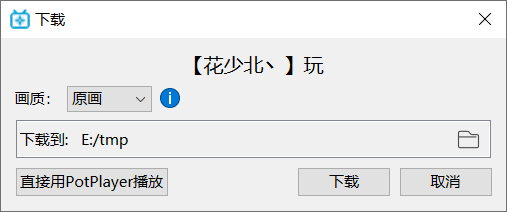
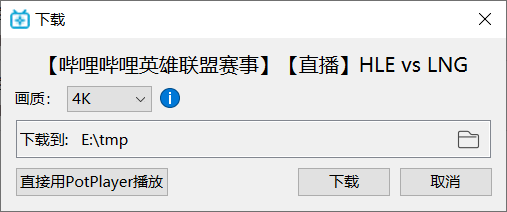
update readme

Changed region(s): [[0.0888, 0.2547, 0.9467, 0.3679], [0.1775, 0.6226, 0.2663, 0.7075], [0.1183, 0.4245, 0.2071, 0.5094]]

diff --git a/README.md b/README.md
@@ -56,13 +56,13 @@ B23Downloader: 下载B站 视频/直播/漫画
 
 <img src="./README.assets/download-example-live.png" alt="download-example-live" width="400" />
 
-上图中，首先注意到，对话框中的标题为 【花少北丶】玩，其命名规则为【<用户名>】<房间标题>。
+上图中，对话框的标题为 *【哔哩哔哩英雄联盟赛事】【直播】HLE vs LNG*，其命名规则为【<用户名>】<房间标题>，示例中用户名为 *哔哩哔哩英雄联盟赛事*，房间标题为 *【直播】HLE vs LNG*。
 
-下载文件的命名为 <标题> <下载开始时间>.flv，比如**【花少北丶】玩 [2021.09.24] 22.21.45.flv**，其所在文件为上图中所选的 **E:/tmp/**
+下载文件的命名为 <标题> <下载开始时间>.flv，比如**【哔哩哔哩英雄联盟赛事】【直播】HLE vs LNG [2021.10.05] 18.59.22.flv**，其所在文件夹为上图中所选的 **E:/tmp/**
 
 目前的直播下载任务策略为：
 
-- 暂停直播下载任务后重新开始，会写入另一个文件，比如 【花少北丶】玩 [2021.09.24] **22.32.11**.flv
+- 暂停直播下载任务后重新开始，会写入另一个文件，比如 【哔哩哔哩英雄联盟赛事】【直播】HLE vs LNG [2021.10.05] **19.32.11**.flv
 - 删除任务不会删除任何相关文件
 - 任务不会被保存，即退出程序后再启动，之前的直播下载任务不被保留
 
@@ -95,9 +95,9 @@ B23Downloader: 下载B站 视频/直播/漫画
 <br>
 
 # Build-Issues
-B23Downloader 使用 Qt 6 (C++ 17) 开发。
+B23Downloader 使用 Qt 6 (C++ 17) 开发，虽然 Release 只有 Windows 64-bit 的，但你可以在其他桌面平台编译使用。
 
-由于所有请求链接均采用 HTTPS，所以依赖 OpenSSL库。虽然 Qt Installer 可以勾选  OpenSSL Toolkit，但 Qt Installer 并不会设置好相关环境，于是会出现找不到 SSL 库的错误（如 TLS initialization failed），解决方法参考 [TLS initialization failed on GET Request - Stack Overflow](https://stackoverflow.com/questions/53805704/tls-initialization-failed-on-get-request/59072649#59072649).
+由于所有请求链接均采用 HTTPS，所以依赖 OpenSSL库。在 **Windows** 上，虽然 Qt Installer 可以勾选  OpenSSL Toolkit，但 Qt Installer 并不会设置好相关环境，于是会出现找不到 SSL 库的错误（如 **TLS initialization failed**），解决方法参考 [TLS initialization failed on GET Request - Stack Overflow](https://stackoverflow.com/questions/53805704/tls-initialization-failed-on-get-request/59072649#59072649).
 
 <br>
 
